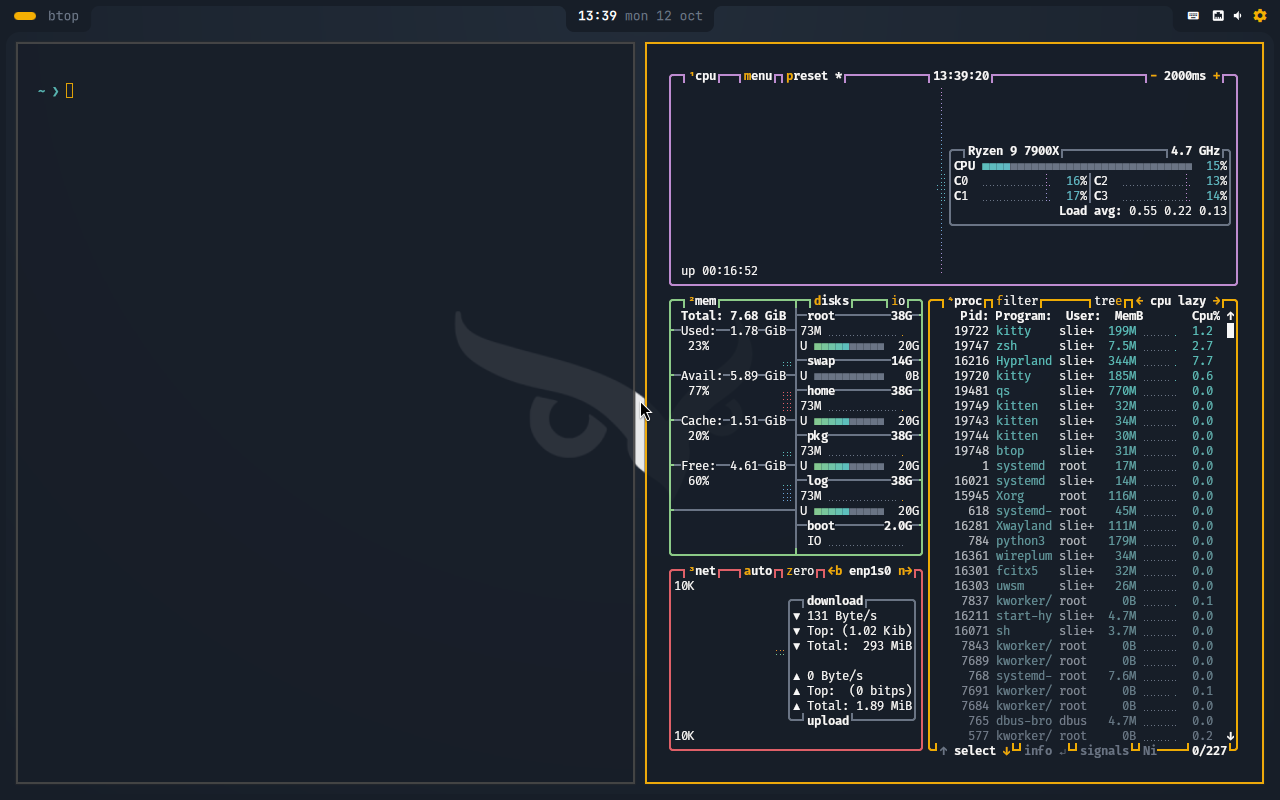
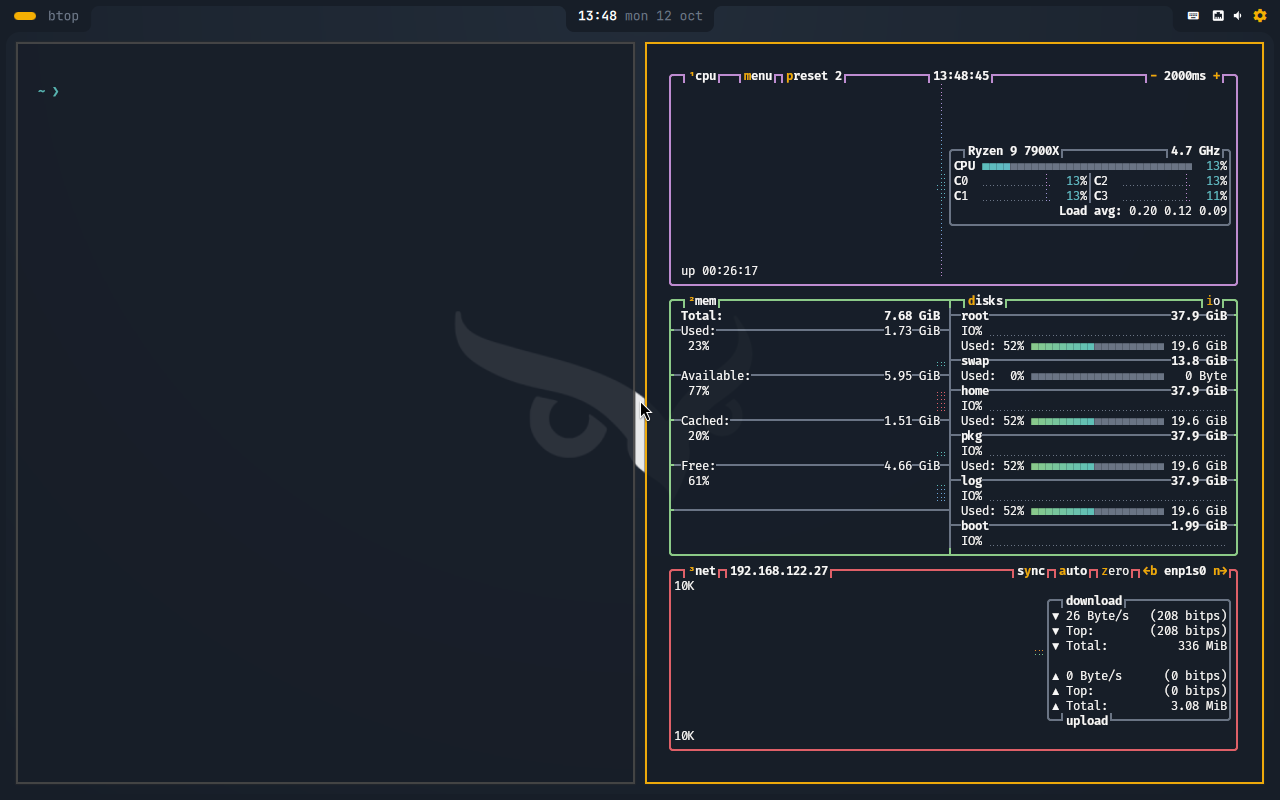
test: verify-shell cleans up on any exit and baselines notifications; docs: osd.popup, Displays pinning, audio/emoji packages; screenshots without personal text

Changed region(s): [[0.5625, 0.375, 0.9688, 0.9688], [0.5938, 0.8438, 0.7188, 0.9062], [0.4688, 0.0, 0.5, 0.0312]]

diff --git a/docs/superpowers/specs/2026-10-10-mbm-shell-design.md b/docs/superpowers/specs/2026-10-10-mbm-shell-design.md
@@ -247,7 +247,7 @@ when a generated section changed, showing any `check` error inline.
 
 **slievr-menu**
 Callers keep working through compat shims that B deletes: `slievr-launch-walker`
-(dmenu → `mbm dmenu`, modes → launcher), `slievr-swayosd-client` (→ `osd.show`),
+(dmenu → `mbm dmenu`, modes → launcher), `slievr-swayosd-client` (→ `osd.popup`),
 `slievr-system-lock`, `slievr-toggle-waybar`, `slievr-toggle-idle`,
 `slievr-toggle-notification-silencing`, `slievr-notification-dismiss` (→ IPC).
 `slievr-menu-keybindings` and the restart/refresh scripts of retired tools are deleted,

diff --git a/README.md b/README.md
@@ -8,7 +8,9 @@ The desktop is its own Quickshell shell (`mbm`): an attached bar with three
 hanging tabs inside a rounded screen frame, a launcher (apps, clipboard,
 emoji, system), notifications, OSD, lock screen, quick settings and a
 settings window. Settings are one JSON file that generates the Hyprland
-config.
+config; pinning workspaces to monitors is edited on the Displays page of the
+settings window. Audio is PipeWire (wireplumber, pipewire-pulse), and the
+desktop ships an emoji font for the emoji picker.
 
 ![Desktop with btop and a terminal](docs/screenshots/06-desktop-apps.png)
 
